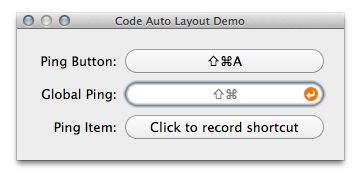
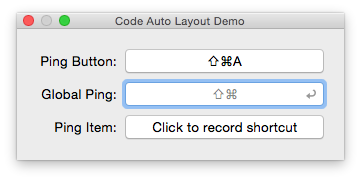
Updated Read Me

diff --git a/README.md b/README.md
@@ -1,9 +1,8 @@
 ShortcutRecorder 2
 ====================
-![pre-Yosemite ShortcutRecorder Preview](Demo/example.png)
-![Yosemite ShortcutRecorder Preview](Demo/example-yosemite.png)
+![Yosemite ShortcutRecorder Preview](Demo/example.png)
 
-The only user interface control to record shortcuts. For Mac OS X 10.6+, 64bit.
+The only user interface control to record shortcuts. For Mac OS X 10.7+, 64bit.
 
 - :microscope: Support for Xcode 6 Quick Help
 - :microscope: Support for Xcode 6 Interface Builder integration
